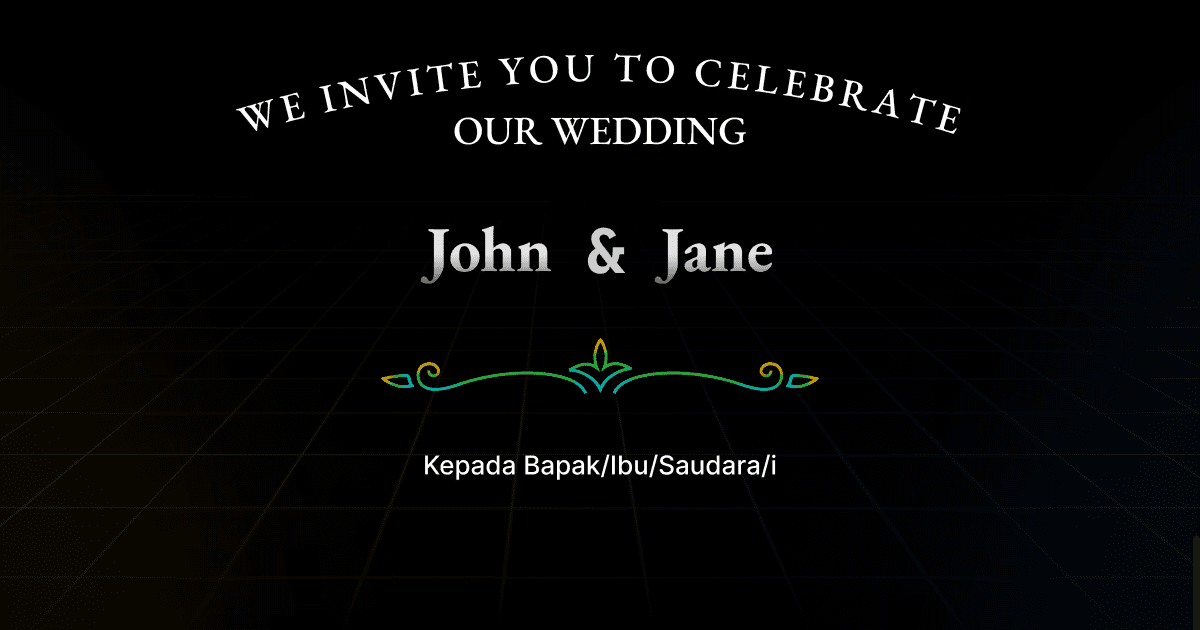
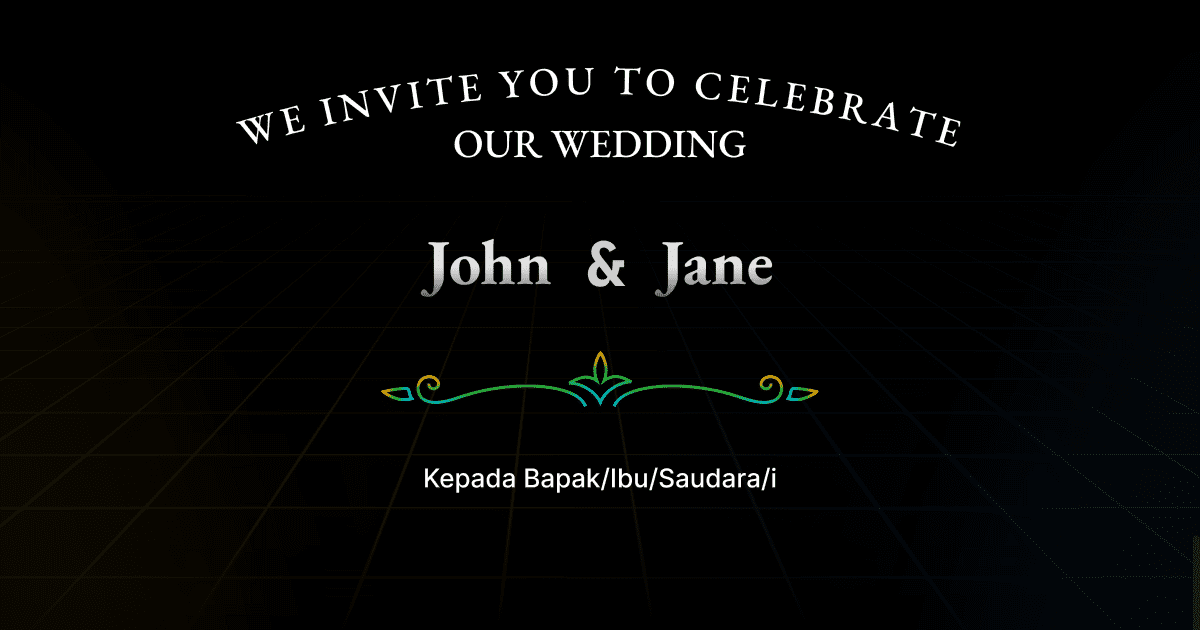
update Og

diff --git a/pages/index.js b/pages/index.js
@@ -385,7 +385,7 @@ export default function Home({ query }) {
                 Doe
               </h1> */}
                 <motion.p
-                  className='whitespace-nowrap bg-gradient-to-b from-white to-[#AAAAAA] bg-clip-text py-16 text-6xl font-bold tracking-wide text-transparent lg:text-8xl'
+                  className='whitespace-nowrap bg-gradient-to-b from-white to-[#AAAAAA] bg-clip-text py-16 text-6xl font-bold tracking-wide text-transparent md:pb-32 lg:text-8xl'
                   style={{
                     x: backwardsX,
                     WebkitTextStrokeColor: rainbowColorss,
@@ -400,8 +400,9 @@ export default function Home({ query }) {
               </div>
 
               {/* </FadeIn> */}
-              <span className='absolute left-0 right-0 top-0 h-14 w-full bg-gradient-to-b from-black to-transparent' />
-              <span className='absolute bottom-0 left-0 right-0 h-10 w-full bg-gradient-to-t from-black to-transparent' />
+              <span className='absolute left-0 right-0 top-0 h-10 w-full bg-gradient-to-b from-black to-transparent' />
+              <span className='absolute bottom-0 left-0 right-0 z-[1] h-10 w-full bg-gradient-to-t from-black to-transparent' />
+              <Gradient width={1500} height={300} className='bottom-[-200px] opacity-10' small conic />
             </section>
 
             <section id='grid' className='flex h-screen w-full items-center justify-center'>

diff --git a/app/new/new-page.js b/app/new/new-page.js
@@ -314,7 +314,7 @@ export default function NewPage({ slug }) {
                 /
               </h1>
               <motion.p
-                className='whitespace-nowrap bg-gradient-to-b from-white to-[#AAAAAA] bg-clip-text py-16 text-6xl font-bold tracking-wide text-transparent lg:text-8xl'
+                className='whitespace-nowrap bg-gradient-to-b from-white to-[#AAAAAA] bg-clip-text py-16 text-6xl font-bold tracking-wide text-transparent md:pb-32 lg:text-8xl'
                 style={{
                   x: backwardsX,
                   WebkitTextStrokeColor: rainbowColorss,
@@ -326,8 +326,9 @@ export default function NewPage({ slug }) {
                 </span>
               </motion.p>
             </div>
-            <span className='absolute left-0 right-0 top-0 h-14 w-full bg-gradient-to-b from-black to-transparent' />
-            <span className='absolute bottom-0 left-0 right-0 h-10 w-full bg-gradient-to-t from-black to-transparent' />
+            <span className='absolute left-0 right-0 top-0 h-10 w-full bg-gradient-to-b from-black to-transparent' />
+            <span className='absolute bottom-0 left-0 right-0 z-[1] h-10 w-full bg-gradient-to-t from-black to-transparent' />
+            <Gradient width={1500} height={300} className='bottom-[-200px] opacity-10' small conic />
           </section>
 
           <section id='grid' className='flex h-screen w-full items-center justify-center'>

diff --git a/pages/api/og.js b/pages/api/og.js
@@ -35,7 +35,7 @@ export default async function handler(req) {
           />
 
           <h1
-            tw='h-full w-full flex items-center mt-52 justify-center'
+            tw='h-full w-full flex items-center mt-56 justify-center'
             style={{
               fontSize: 50,
               fontWeight: 900,

diff --git a/app/og/route.js b/app/og/route.js
@@ -27,7 +27,7 @@ export async function GET(request) {
         />
 
         <h1
-          tw='h-full w-full flex items-center mt-52 justify-center'
+          tw='h-full w-full flex items-center mt-56 justify-center'
           style={{
             fontSize: 50,
             fontWeight: 900,
